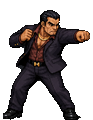
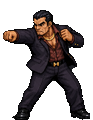
fix(thug_leader): skill 动作水平镜像对齐整体朝向
源表 skill 出拳朝右、attack 踢腿朝左，实体 flipRule:'opposite' 只做整体翻转、
素材内部朝向必须自洽 → 切片器新增 --flip-actions 参数，skill 8 帧镜像为朝左。
联系表复看 4 动作朝向一致；像素诊断碎屑=0/轮廓高不变；npm check 89/89

diff --git a/devtools/slice_dark_sheet.py b/devtools/slice_dark_sheet.py
@@ -537,6 +537,7 @@ def main():
     p.add_argument('--target', default='93x120', help='输出画布 WxH')
     p.add_argument('--t', type=int, default=None, help='洪水阈值(默认28)。西装贴身深色的表用 20')
     p.add_argument('--close', type=int, default=0, help='形态学闭合半径(格坐标像素)。桥接衣褶渐变窄缝，如打手头目用 7')
+    p.add_argument('--flip-actions', default='', help='需水平镜像的动作列表(逗号分隔)，如 skill。源表各动作朝向不一致时用')
     args = p.parse_args()
     global T
     if args.t:
@@ -545,6 +546,7 @@ def main():
     tw, th = map(int, args.target.lower().split('x'))
     target = (tw, th)
     actions = [a.strip() for a in args.actions.split(',') if a.strip()]
+    flip_actions = {a.strip() for a in args.flip_actions.split(',') if a.strip()}
     per_action = {}
     for act in actions:
         src = os.path.join(args.src, f'{act}.png')
@@ -585,6 +587,8 @@ def main():
             amask = np.array(canvas.split()[-1]) > 200
             amask = drop_thin_lines(amask, min_side=3)
             canvas.putalpha(Image.fromarray((amask.astype(np.uint8) * 255), 'L'))
+            if act in flip_actions:  # 源表该动作朝向与其余动作相反 → 水平镜像对齐
+                canvas = canvas.transpose(Image.FLIP_LEFT_RIGHT)
             out_idx += 1
             canvas.save(os.path.join(od, f'{act}_{out_idx:02d}.png'))
             written.append((out_idx, bw, bh, nw, nh))
